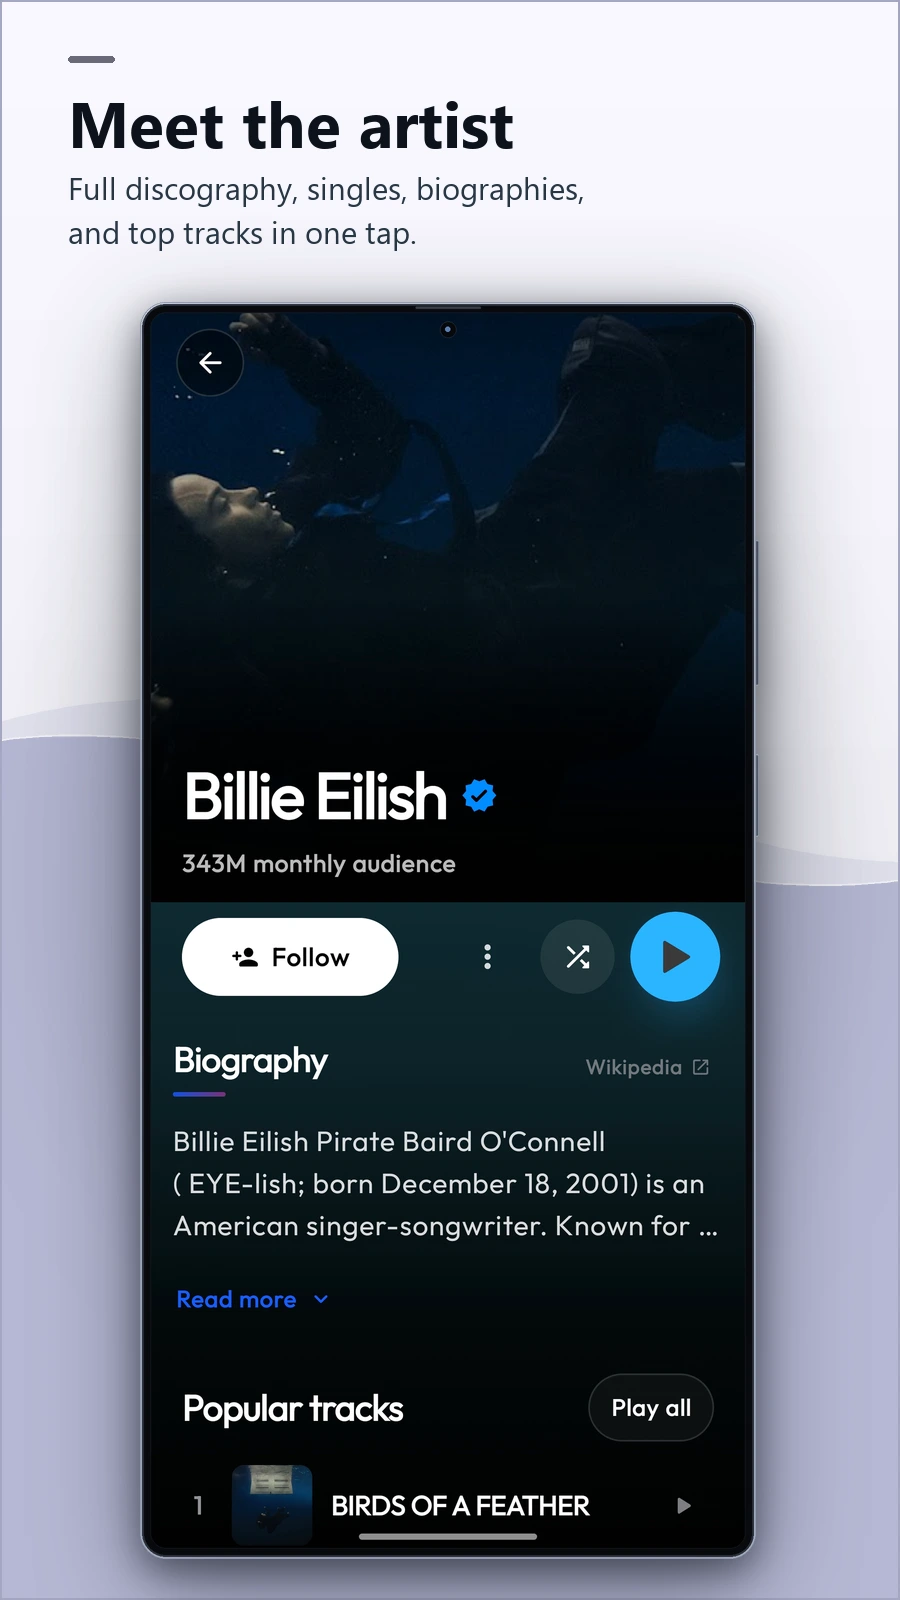
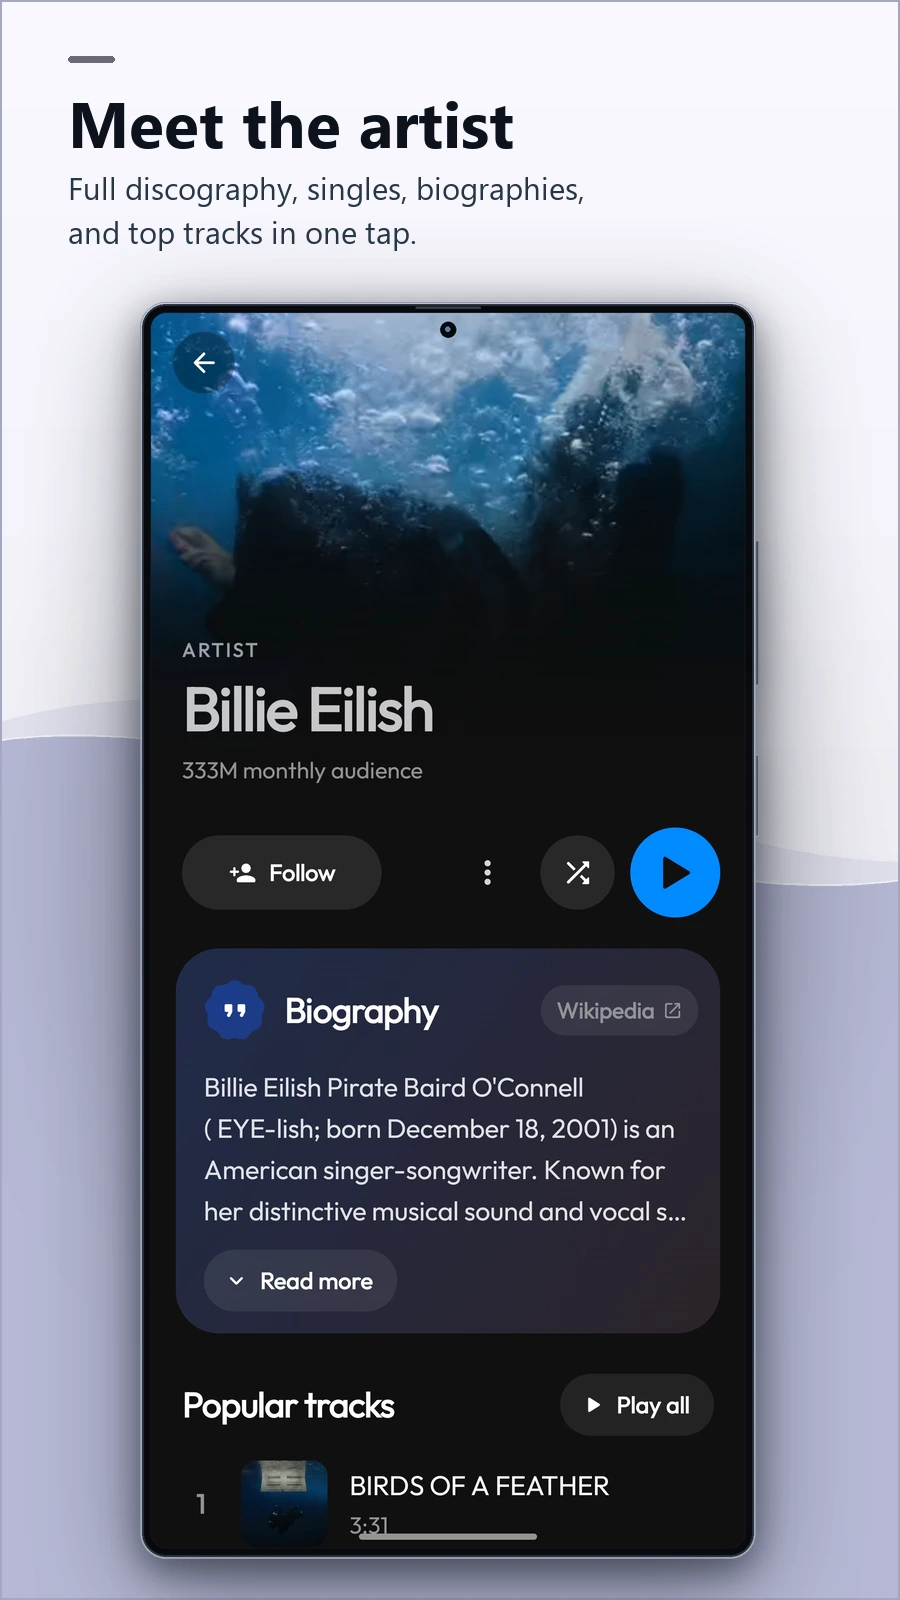
docs(readme): update Meet the artist showcase card with Billie Eilish UI

Changed region(s): [[0.1556, 0.4062, 0.84, 0.9688], [0.1556, 0.1875, 0.84, 0.375]]

diff --git a/scripts/generate_showcase_assets.py b/scripts/generate_showcase_assets.py
@@ -661,7 +661,7 @@ def generate_feature_cards():
     single_specs = [
         (0, "03_now_playing.webp", "screen-lyrics.jpg", "Follow every line", "Synced lyrics move\nwith the music.", C_CASHMERE),
         (1, "04_player_deck.webp", "Screenshot_20260929_195520_LEVYRA.jpg", "Style your player", "Canvas, card deck, or classic vinyl.\nSwitch your stage seamlessly.", C_TWILIGHT),
-        (3, "06_artist_profile.webp", "Screenshot_20260926_194603_LEVYRA.jpg", "Meet the artist", "Full discography, singles, biographies,\nand top tracks in one tap.", C_TWILIGHT),
+        (3, "06_artist_profile.webp", "Screenshot_20261010_143646_LEVYRA.jpg", "Meet the artist", "Full discography, singles, biographies,\nand top tracks in one tap.", C_TWILIGHT),
         (4, "07_genres.webp", "Screenshot_20261010_132249_LEVYRA.jpg", "Pick a direction", "Move through moods, vibes, and genres\ncrafted for every moment.", C_SAGE),
         (5, "08_audio_tuning.webp", "Screenshot_20260926_194845_LEVYRA.jpg", "Shape the playback", "Sleep timer, tempo tuning, loudness norm,\nand advanced audio engine.", C_CELESTE),
         (6, "09_album.webp", "Screenshot_20260926_194706_LEVYRA.jpg", "Open the album", "High-resolution artwork, release info,\nand complete tracklists.", C_CASHMERE),
@@ -674,7 +674,7 @@ def generate_feature_cards():
         (13, "16_settings_vault.webp", "Screenshot_20261010_140700_LEVYRA.jpg", "Tailor every detail", "Audio, design, gestures, and local\nsingle-file Vault backups.", C_SAGE),
         (14, "17_new_releases.webp", "Screenshot_20260927_132248_LEVYRA.jpg", "Fresh off the stage", "New singles and albums updated\nevery week directly from artists.", C_CASHMERE),
         (15, "18_fresh_currents.webp", "Screenshot_20260929_212908_LEVYRA.jpg", "Discovery stream", "Artist mixes, deep catalog filters,\nand instant radio stations.", C_SEAFOAM),
-        (15, "18_artist_profile.webp", "Screenshot_20260926_194603_LEVYRA.jpg", "Meet the artist", "Full discography, singles, biographies,\nand top tracks in one tap.", C_TWILIGHT),
+        (15, "18_artist_profile.webp", "Screenshot_20261010_143646_LEVYRA.jpg", "Meet the artist", "Full discography, singles, biographies,\nand top tracks in one tap.", C_TWILIGHT),
         (16, "19_top_50.webp", "Screenshot_20261010_132028_LEVYRA.jpg", "Top 50 charts", "Explore daily country charts,\nviral hits, and top tracks worldwide.", C_TWILIGHT),
         (17, "20_soundstage.webp", "Screenshot_20260926_193948_LEVYRA.jpg", "Pure soundstage", "Experience lossless decoding and\nuncompromised audio fidelity.", C_CELESTE),
     ]
